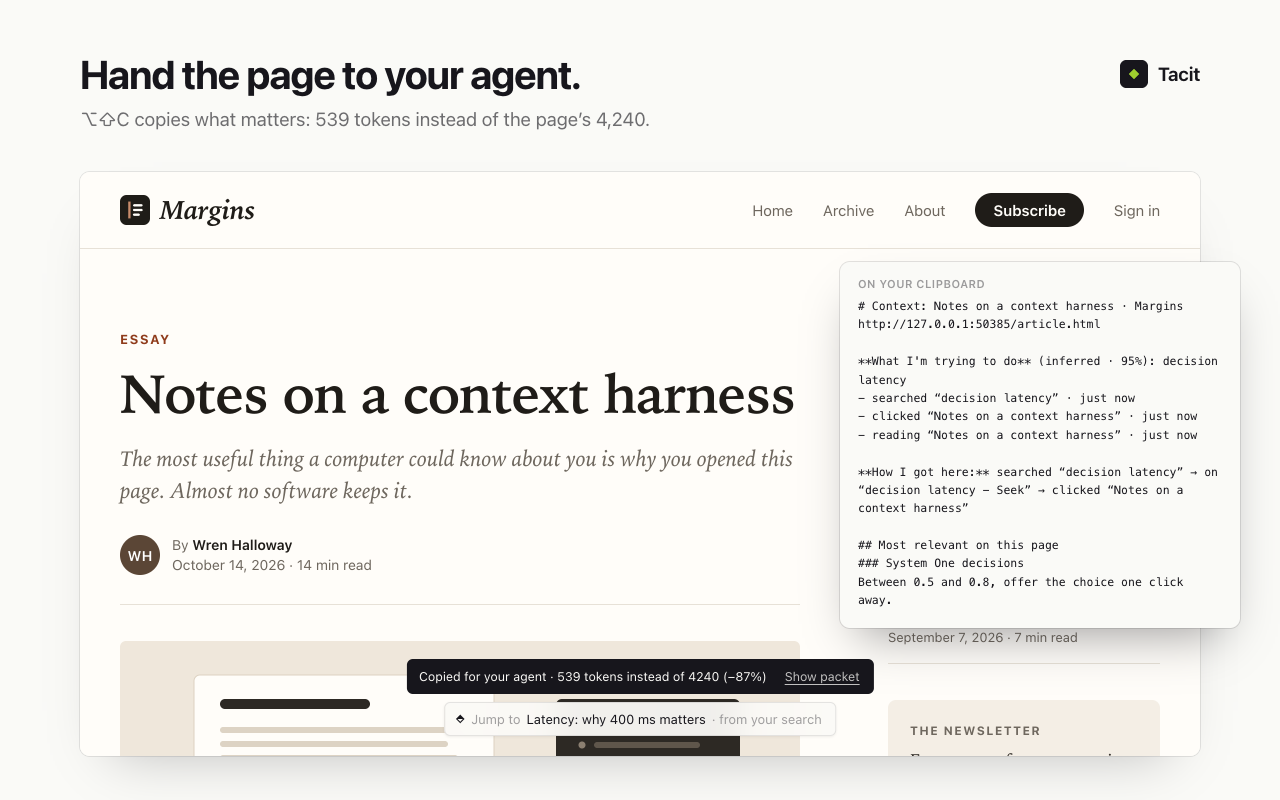
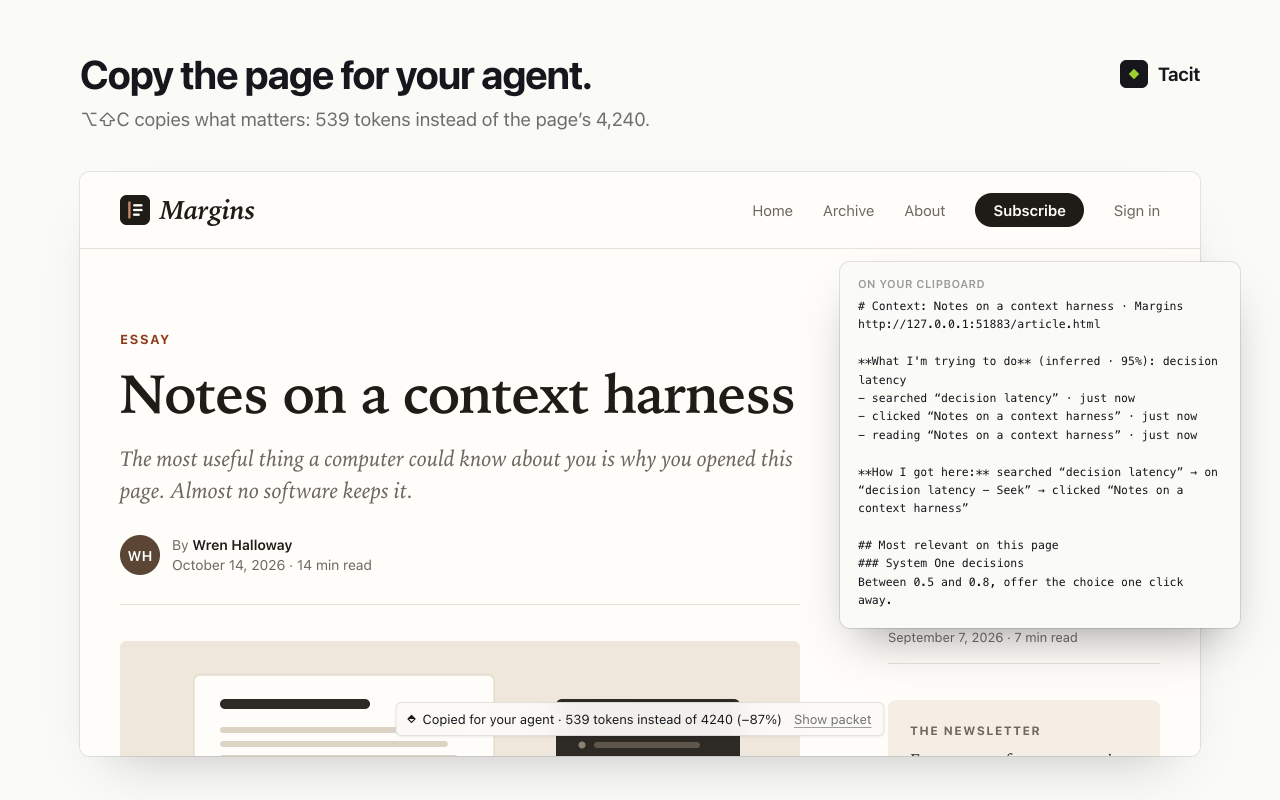
Release 0.2.0
What you read becomes context, X works for real, and Tacit learns from
what you undo; plus a guide and setup by pasting one line to an agent.

- Versions: extension, package and harness at 0.2.0; changelog dated.
- Store kit: permissions.md justifies only what the extension asks for
  now (no tabs; http and https hosts) and the new data it handles;
  listing.md is ready in both languages; images re-rendered.
- bun run record now makes the README GIF from the same take as the
  video; both re-rendered from this build.
- Only the popup and the dashboard carry the guide links (core/links).
- bun run setup checks Claude Code's user scope from outside any
  project, so an old local entry no longer passes for one.

Changed region(s): [[0.3125, 0.8125, 0.6875, 0.9375], [0.0625, 0.0625, 0.4688, 0.125]]

diff --git a/scripts/store.ts b/scripts/store.ts
@@ -9,7 +9,7 @@ import { chromium, type Browser, type Page } from 'playwright';
 import { HARNESS_ORIGIN, HARNESS_PORT, type CurrentContextResponse } from '../core';
 import { startHarness } from '../daemon/server';
 import { startDemo } from '../demo/serve';
-import { capsuleText, launch, LOCAL_ONLY, openSlip, ROOT } from './browser';
+import { capsuleText, launch, LOCAL_ONLY, openSlip, ROOT, searchThenOpen as openFrom } from './browser';
 
 const OUT = join(ROOT, 'docs/store');
 /** The browser window inside each screenshot. Pages are captured at 2x. */
@@ -88,7 +88,7 @@ async function render(browser: Browser, html: string, file: string, size: { widt
   console.log(`docs/store/${file}`);
 }
 
-/** Reads the capsule's state attributes, e.g. whether the slip is open or a toast is up. */
+/** Reads the capsule's state attributes, e.g. whether the slip is open or the line is confirming something. */
 function capsuleHas(page: Page, attr: string): Promise<boolean> {
   return page.evaluate((a) => !!document.querySelector('tacit-capsule')?.shadowRoot?.querySelector(`.tc[${a}]`), attr);
 }
@@ -108,10 +108,7 @@ async function currentUrl(): Promise<string> {
 }
 
 async function searchThenOpen(page: Page, query: string, target: string): Promise<void> {
-  await page.goto(`${site}/search.html?q=${encodeURIComponent(query).replace(/%20/g, '+')}`);
-  await capsuleText(page);
-  await page.locator(`a[href*="${target}"]:not([href*="#"])`).first().click();
-  await page.waitForURL(new RegExp(target.replace('.', '\\.')));
+  await openFrom(page, site, query, target);
   await capsuleText(page);
 }
 
@@ -133,14 +130,14 @@ try {
   await page.waitForTimeout(400);
   await page.keyboard.press('Alt+Shift+KeyC');
   await page.waitForTimeout(700);
-  if ((await capsuleHas(page, 'data-open')) || !(await capsuleHas(page, 'data-toast'))) throw new Error('handoff: expected the toast, not the slip');
+  if ((await capsuleHas(page, 'data-open')) || !(await capsuleHas(page, 'data-note'))) throw new Error('handoff: expected the line to confirm, not the slip');
   const packet = await page.evaluate(() => navigator.clipboard.readText());
   const [, tokens, full] = packet.match(/~(\d+) tokens instead of ~(\d+)/) ?? [];
   if (!tokens || !full) throw new Error('handoff: no token counts in the packet');
   const lines = packet.split('\n').slice(0, 13);
   shots.push({
     file: 'screenshot-2-handoff.png',
-    title: 'Hand the page to your agent.',
+    title: 'Copy the page for your agent.',
     note: `⌥⇧C copies what matters: ${Number(tokens).toLocaleString('en-US')} tokens instead of the page’s ${Number(full).toLocaleString('en-US')}.`,
     capture: await page.screenshot(),
     inset: `<div class="inset packet"><div class="head">On your clipboard</div>${lines.map((l) => `<div>${esc(l) || ' '}</div>`).join('')}</div>`,

diff --git a/scripts/record.ts b/scripts/record.ts
@@ -1,4 +1,4 @@
-// Records the demo flow as a video for sharing: docs/tacit-demo.mp4.
+// Records the demo flow for sharing: docs/tacit-demo.mp4, and the README's docs/assets/demo.gif from the same take.
 
 import { mkdtempSync, readdirSync, rmSync } from 'node:fs';
 import { tmpdir } from 'node:os';
@@ -59,7 +59,7 @@ try {
   await capsuleText(page);
   await caption(page, 'Tacit already knows why you are here, and says so', 3000);
   await page.locator('tacit-capsule .line').hover();
-  await caption(page, 'Intent, evidence, confidence. Nothing typed.', 3000);
+  await caption(page, 'Your intent, where it came from, the next steps. Nothing typed.', 3000);
   await page.mouse.move(60, 60);
   await page.waitForTimeout(400);
 
@@ -71,10 +71,10 @@ try {
   await page.waitForTimeout(2600);
   await page.keyboard.press('Alt+Shift+KeyF');
 
-  await caption(page, '⌥⇧C  hand the page to your agent', 600);
+  await caption(page, '⌥⇧C  copy the page for your agent', 600);
   await page.keyboard.press('Alt+Shift+KeyC');
   await page.waitForTimeout(1800);
-  await page.locator('tacit-capsule [data-act="toast"]').dispatchEvent('click');
+  await page.locator('tacit-capsule [data-act="note"]').dispatchEvent('click');
   await caption(page, 'A few hundred tokens instead of the whole page', 3200);
   await page.mouse.move(60, 60);
 
@@ -116,3 +116,9 @@ const out = join(ROOT, 'docs/tacit-demo.mp4');
 await Bun.$`ffmpeg -y -loglevel error -i ${join(videoDir, webm)} -c:v libx264 -pix_fmt yuv420p -crf 20 -movflags +faststart ${out}`;
 rmSync(videoDir, { recursive: true, force: true });
 console.log(`video: ${out}`);
+
+// The README's GIF, from the same take: 960 wide, 10 fps, one palette for the whole clip.
+const gif = join(ROOT, 'docs/assets/demo.gif');
+const palette = 'fps=10,scale=960:-1:flags=lanczos,split[a][b];[a]palettegen=stats_mode=diff[p];[b][p]paletteuse=dither=bayer:bayer_scale=5:diff_mode=rectangle';
+await Bun.$`ffmpeg -y -loglevel error -i ${out} -vf ${palette} ${gif}`;
+console.log(`gif: ${gif}`);

diff --git a/scripts/setup.ts b/scripts/setup.ts
@@ -4,7 +4,7 @@
 // Usage: bun run setup [--yes] [--dry-run]
 
 import { existsSync, mkdirSync, readFileSync, writeFileSync } from 'node:fs';
-import { homedir } from 'node:os';
+import { homedir, tmpdir } from 'node:os';
 import { dirname, join } from 'node:path';
 import { HARNESS_ORIGIN, type StatsResponse } from '../core';
 import { MCP_PATH, claudeAddArgs, connectInfo } from '../daemon/connect';
@@ -56,8 +56,9 @@ else left.push(`The running harness keeps its ledger in ${ledger}, not ${home}. 
 // 3. Agents. Claude Code is connected here; any other client gets its config printed.
 const claude = Bun.which('claude');
 if (claude) {
-  // `claude mcp get` exit codes are not documented, so an entry counts only if it points at this checkout.
-  const got = Bun.spawnSync([claude, 'mcp', 'get', 'tacit'], { stdout: 'pipe', stderr: 'pipe' });
+  // `claude mcp get` exit codes are not documented, so an entry counts only if it points at this checkout. Asked from
+  // outside any project, only user scope answers: an old local entry in this folder must not pass for one.
+  const got = Bun.spawnSync([claude, 'mcp', 'get', 'tacit'], { cwd: tmpdir(), stdout: 'pipe', stderr: 'pipe' });
   const elsewhere = got.exitCode === 0 && !got.stdout.toString().includes(MCP_PATH);
   if (got.exitCode === 0 && !elsewhere) done.push('Claude Code already has Tacit');
   else if (agree(elsewhere ? 'Claude Code has a Tacit entry that points elsewhere. Point it at this folder?' : 'Add Tacit to Claude Code, for every project?')) {

diff --git a/core/protocol.ts b/core/protocol.ts
@@ -8,12 +8,7 @@ import type { Intent, PageKind, PageModel, Read, Visit } from './types';
 
 export const HARNESS_PORT = 7766;
 export const HARNESS_ORIGIN = `http://127.0.0.1:${HARNESS_PORT}`;
-export const HARNESS_VERSION = '0.1.1';
-/** The guide, in each language the interface speaks. */
-export const GUIDE_URL = {
-  en: 'https://github.com/wujiajunhahah/tacit/blob/main/GUIDE.md',
-  'zh-CN': 'https://github.com/wujiajunhahah/tacit/blob/main/GUIDE.zh-CN.md',
-} as const;
+export const HARNESS_VERSION = '0.2.0';
 
 /**
  * - page: a visit started, or the page model changed (SPA navigation, feed grew).

diff --git a/extension/src/popup.ts b/extension/src/popup.ts
@@ -1,4 +1,5 @@
-import { GUIDE_URL, HARNESS_ORIGIN, clampPointerDwell } from '../../core';
+import { HARNESS_ORIGIN, clampPointerDwell } from '../../core';
+import { GUIDE_URL } from '../../core/links';
 import { detectLocale, getLocale, setLocale, t, type Key, type LocalePref } from './i18n';
 import { send, type StatusReply } from './messages';
 import { patternMatches, saveSettings, type Settings } from './settings';

diff --git a/daemon/ui/app.ts b/daemon/ui/app.ts
@@ -1,6 +1,7 @@
 // The dashboard: a hash router over seven views, bundled into GET / by ui/index.ts.
 
-import { GUIDE_URL, type HealthResponse } from '../../core';
+import type { HealthResponse } from '../../core';
+import { GUIDE_URL } from '../../core/links';
 import { get } from './api';
 import { attrs, el } from './dom';
 import { getLocale, initLocale, setLocale, t, tn, type Key } from './i18n';

diff --git a/core/links.ts b/core/links.ts
@@ -1,0 +1,7 @@
+// Links out of Tacit. Not re-exported from core/index, so only the bundles that show them carry them.
+
+/** The guide, in each language the interface speaks. */
+export const GUIDE_URL = {
+  en: 'https://github.com/wujiajunhahah/tacit/blob/main/GUIDE.md',
+  'zh-CN': 'https://github.com/wujiajunhahah/tacit/blob/main/GUIDE.zh-CN.md',
+} as const;

diff --git a/docs/store/permissions.md b/docs/store/permissions.md
@@ -1,24 +1,16 @@
 # Privacy practices: permissions and data use
 
-Answers for the **Privacy practices** tab of the developer dashboard. Each block in "Permission justifications" goes into the field of the same name. Everything here was checked against the code at v0.1.1; file references are given so a reviewer, or you after a change, can check again.
+Answers for the **Privacy practices** tab of the developer dashboard. Each block in "Permission justifications" goes into the field of the same name. Everything here was checked against the code at v0.2.0; file references are given so a reviewer, or you after a change, can check again.
 
 ## Permission justifications
 
 ### storage
 
 ```text
-Saves Tacit's settings (paused, sites paused, sites never to read) and the recent trail it reasons over, so both survive the service worker restarting. chrome.storage.local holds the last 300 page visits (address, title, times, scroll depth, how the page was reached, and the text selected or copied and the links clicked there) and the last 200 actions Tacit took. chrome.storage.session holds per-tab navigation state, which Chrome clears when the browser closes. This data stays in the browser; the only place it is sent is the harness the user runs on their own computer at 127.0.0.1.
+Saves Tacit's settings (paused, sites paused, sites and paths never to read, reading with the pointer and its threshold, language) and the recent trail it reasons over, so both survive the service worker restarting. chrome.storage.local holds the last 300 page visits (address, title, times, scroll depth, how the page was reached, the text selected or copied, the links and posts clicked, and the passages read closely there) and the last 200 actions Tacit took. chrome.storage.session holds per-tab navigation state, which Chrome clears when the browser closes. This data stays in the browser; the only place it is sent is the harness the user runs on their own computer at 127.0.0.1.
 ```
 
 Code: `extension/src/settings.ts`, `save()` and `load()` in `extension/src/background.ts`.
-
-### tabs
-
-```text
-The popup reads the active tab's address to show which site the user is on and to pause Tacit on that site only. The service worker uses tab events to work out how a page was reached and when the user stopped reading it: which tab opened a new tab, and when a tab closed. It messages a tab when a single-page app changes its address, so the content script reads the new page, and the popup opens the local ledger (http://127.0.0.1:7766) in a new tab.
-```
-
-Code: `activeDomain()` in `extension/src/popup.ts`; `chrome.tabs.onCreated`, `onRemoved` and `sendMessage` in `extension/src/background.ts`.
 
 ### webNavigation
 
@@ -31,22 +23,22 @@ Code: the three `chrome.webNavigation` listeners and `computeArrival()` in `exte
 ### clipboardWrite
 
 ```text
-Tacit writes to the clipboard only when the user asks. Alt+Shift+C (or "Hand to agent") copies a Markdown context packet of the current page, to paste into an AI agent; a copy suggestion copies a command from a code block on the page. The permission keeps this working where the asynchronous Clipboard API is unavailable (plain-http pages) or blocked by the site, through the document.execCommand('copy') fallback. Tacit never reads the clipboard.
+Tacit writes to the clipboard only when the user asks. Alt+Shift+C (or "Copy for agent") copies a Markdown context packet of the current page, to paste into an AI agent; a copy suggestion copies a command from a code block on the page. The permission keeps this working where the asynchronous Clipboard API is unavailable (plain-http pages) or blocked by the site, through the document.execCommand('copy') fallback. Tacit never reads the clipboard.
 ```
 
 Code: `extension/src/clipboard.ts`, `handoff()` and `copyAction()` in `extension/src/content.ts`.
 
-### Host permission (`<all_urls>`)
+### Host permissions (`http://*/*`, `https://*/*`)
 
 ```text
-Tacit's single purpose is to make the page the user is reading available as context, on whatever site they read it, so its content script runs on all http and https pages to read the page's text and links and how the user reached and used the page. Sites on the never-read list (by default Gmail, Google Account pages, PayPal, 1Password, Bitwarden and LastPass) and paused sites are skipped: the content script does not read them. The service worker also needs to reach http://127.0.0.1:7766, the harness the user runs on their own computer, which is the only address Tacit sends data to.
+Tacit's single purpose is to make the page the user is reading available as context, on whatever site they read it, so its content script runs on all http and https pages to read the page's text and links and how the user reached and used the page. Sites and paths on the never-read list (by default Gmail, Google Account pages, PayPal, 1Password, Bitwarden, LastPass, and X messages and chats) and paused sites are skipped: the content script does not read them. The same access lets the popup show which site the active tab is on, so it can be paused there, without the tabs permission. The service worker also needs to reach http://127.0.0.1:7766, the harness the user runs on their own computer, which is the only address Tacit sends data to.
 ```
 
-Code: `content_scripts` in `extension/manifest.json` (http and https only), `DEFAULT_SETTINGS` and `isActiveOn()` in `extension/src/settings.ts`, `HARNESS_ORIGIN` in `core/protocol.ts`.
+Code: `host_permissions` and `content_scripts` in `extension/manifest.json` (http and https only), `DEFAULT_SETTINGS` and `isActiveAt()` in `extension/src/settings.ts`, `activeTab()` in `extension/src/popup.ts`, `HARNESS_ORIGIN` in `core/protocol.ts`. There is no `tabs` permission: tab events, messaging a tab and opening a tab do not need it.
 
 ## Remote code
 
-Choose **"No, I am not using remote code."** All JavaScript is bundled into `extension/dist/` at build time. The extension makes requests to `http://127.0.0.1:7766` only (`/v1/health`, `/v1/ingest`, `/v1/decide`), all JSON, and never loads or evaluates code from there or anywhere else. The built files contain no `eval`, no `new Function` and no other URL.
+Choose **"No, I am not using remote code."** All JavaScript is bundled into `extension/dist/` at build time. The extension makes requests to `http://127.0.0.1:7766` only (`/v1/health`, `/v1/ingest`, `/v1/decide`, `/v1/forgotten`, and `/v1/connect` from the popup), all JSON, and never loads or evaluates code from there or anywhere else. The built files contain no `eval` and no `new Function`. The only other URLs in them are two links in the popup to the guide on GitHub, which open as an ordinary tab when the user clicks one.
 
 ## Data usage
 
@@ -55,7 +47,7 @@ Tick these three, and leave the others unticked:
 | Category | Tick | What Tacit handles |
 |---|---|---|
 | Web history | Yes | Address, title and times of each page visited; the page it came from and the search that led to it. |
-| User activity | Yes | Clicks on links and buttons (label and address), scroll depth, time the page is visible and focused, text selected or copied. |
+| User activity | Yes | Clicks on links, buttons and posts (label and address), scroll depth, time the page is visible and focused, text selected or copied, and which passages stay in the middle of the screen, or under the resting pointer when the user turns that on, and for how long. No pointer positions are kept. |
 | Website content | Yes | Page text (headings, paragraphs, lists, code, quotes, captions), links (text, address, surrounding sentence), meta description; on X timelines, post text and author names. |
 | Personally identifiable information | No | Not collected as such. Anything a page happens to show is covered by Website content, and PRIVACY.md says so. |
 | Health information | No | Same as above. |
@@ -72,12 +64,12 @@ Privacy policy URL: `https://github.com/wujiajunhahah/tacit/blob/main/PRIVACY.md
 
 | What | Where | Kept |
 |---|---|---|
-| Settings | `chrome.storage.local` | Until changed or uninstalled |
-| Trail: the last 300 visits, each with up to 20 selections and 20 copies (2,000 characters each) and the last 30 clicks | `chrome.storage.local` | Oldest dropped past 300; deleted on uninstall |
+| Settings, and the time of the last deletion in the harness it applied | `chrome.storage.local` | Until changed or uninstalled |
+| Trail: the last 300 visits, each with up to 20 selections and 20 copies (2,000 characters each), the last 30 clicks and up to 30 passages read closely (300 characters each) | `chrome.storage.local` | Oldest dropped past 300; forgotten when deleted in the dashboard; deleted on uninstall |
 | Action ledger: the last 200 actions (jump, copy, open, focus, fold, handoff, picked intent) | `chrome.storage.local` | Oldest dropped past 200; deleted on uninstall |
 | Per-tab state: the current visit, the last navigation (address, transition type), the address requested before a redirect, the last link clicked, the opener tab | `chrome.storage.session` | Until the browser closes |
 | Page models of the last 30 pages; up to 500 events waiting for the harness | Service worker memory | Until the service worker stops |
-| Pages (up to 400 text blocks of 4,000 characters, up to 300 links and buttons), visits, actions | The harness, over plain HTTP on the loopback interface, into `~/.tacit/tacit.db` (0600 file in a 0700 folder) | Newest 5,000 visits and their pages; actions until the folder is deleted |
+| Pages (up to 400 text blocks of 4,000 characters, up to 300 links and buttons), visits, actions | The harness, over plain HTTP on the loopback interface, into `~/.tacit/tacit.db` (0600 file in a 0700 folder) | Newest 5,000 visits and their pages; actions until deleted from the dashboard or the folder is deleted. A deleted page is remembered by a SHA-256 hash of its address (the last 1,000), never the address |
 | The context packet, or a command from a code block | The clipboard | Only when the user presses Alt+Shift+C or runs a copy suggestion |
 | Decision requests (below) | TypeSafe's API over HTTPS, sent by the harness | Only when the harness has a TypeSafe key |
 
@@ -97,7 +89,7 @@ The content script asks once per page view and again when the intent or the page
 |---|---|---|
 | `model` | `TYPESAFE_MODEL`, else `jev-latest` | |
 | `state.user_intent` | The inferred or stated intent: a recent search, a passage the user selected or copied, something they said, or a page title | 80 characters |
-| `state.evidence` | Up to three lines like `searched “jev latency” · 3 min ago`, `selected “…” · just now`, `read “page title” · 5 min ago`, from the last 30 visits within the last 90 minutes (any tab, any site Tacit was allowed to read) | 3 lines, 60 characters quoted per line |
+| `state.evidence` | Up to three lines like `searched “jev latency” · 3 min ago`, `selected “…” · just now`, `read closely “…” · just now`, `read “page title” · 5 min ago`, from the last 30 visits within the last 90 minutes (any tab, any site Tacit was allowed to read) | 3 lines, 60 characters quoted per line |
 | `state.page` | The current page's `title`, full `url` (including query string and fragment) and `kind` (article, feed, repo, search, unknown) | |
 | `questions.next` (pages other than X timelines) | A choice among up to 12 candidate next steps plus "none". Each option is `"<n>. <label>"` with the text around it as its description. Candidates are jumps to the best sections (heading, passage snippet), copies of code blocks (first line, code snippet) and the page's links and buttons (their text, the sentence around them). Link addresses are not sent. | 12 options; label 80, description 160 characters |
 | `questions.post_0` … `post_39` (X timelines) | One yes/no question per post: "Is this post about what the user is trying to do right now?", with the post text and author name, in page order | 40 posts; text 500, author 80 characters |

diff --git a/CHANGELOG.md b/CHANGELOG.md
@@ -1,8 +1,8 @@
 # Changelog
 
-## 0.2.0 · Unreleased
+## 0.2.0 · 2026-10-21
 
-What you read becomes context, X works for real, and Tacit learns from what you undo.
+What you read becomes context, X works for real, and Tacit learns from what you undo. And a guide, plus setup by pasting one line to your agent.
 
 - **Reading attention.** A passage that holds the middle of the screen for 4 s of reading becomes context: it weighs the words you are after and leads the packet under "Passages I read closely". Turn on "Read with the pointer" in the popup and the passage your pointer rests on counts too, after a threshold you set (0.6–4 s). Skimming, idle time and hidden tabs never count.
 - **X, for real.** Timelines that recycle posts keep every post you scroll past. Re-rendered posts get their folds back before they paint, and new posts are folded before they reach the screen. Opening a post is a new visit that remembers which post you came from. Conversations are never folded, and X messages and chats are never read.
@@ -18,6 +18,7 @@ What you read becomes context, X works for real, and Tacit learns from what you 
 - **Who decides.** DESIGN.md maps every decision in the loop to one owner (code, pre-written, a small typed model, or your own agent) with its time budget and its fallback.
 - **[DESIGN.md](DESIGN.md):** the north star (less input), the principles, the loop, every signal and its weight, and when Tacit borrows from other tools.
 - **Fewer permissions.** No `tabs` permission, and host access narrowed from `<all_urls>` to `http` and `https`.
+- **The store kit, for 0.2.0.** `docs/store` justifies only the permissions the extension now asks for, describes the new data (passages read closely, X messages left out, deletion), and has a 简体中文 listing ready, since the package ships `_locales/zh_CN`. Images, the demo video and the README GIF re-rendered from the new build; `bun run record` now makes the GIF too.
 - **Jumps land like anchor links:** the target near the top, the answer below it in the reading band, instead of centered under the previous section.
 - **Fixes.** Clicking a fold no longer counts as interest in the posts it hides. Unfolding opens the whole run, even where the page recycled part of it. The popup hides the site switch on browser pages. The Learned view no longer says Tacit acts on its own: it offers, one key away. Reading a passage weighs its words but no longer renames your goal after a sentence you copied from it. A 40% undo rate moves the bar one step, not two (float rounding). The setup command adds Tacit to Claude Code for every project (`--scope user`), not only the tacit folder.
 - **Tests.** 140 unit tests. The extension's end-to-end run grows to 41 checks (reading, pointer reading, Chinese, every dashboard view, a deletion reaching the extension), and `bun run e2e:web` checks the page runtime against an X-style virtual timeline (20 checks). Browser tests ignore any system proxy, so they run where one is set.

diff --git a/docs/store/README.md b/docs/store/README.md
@@ -25,17 +25,15 @@ bun run build && cd extension && zip -r ../tacit-extension-v0.2.0.zip manifest.j
 
 1. Commit and push, so `https://github.com/wujiajunhahah/tacit/blob/main/PRIVACY.md` resolves.
 2. Register at the [developer dashboard](https://chrome.google.com/webstore/devconsole) and pay the one-time $5 fee. Finish whatever the Account tab asks for.
-3. **New item**, then upload `tacit-extension-v0.1.1.zip` (the same file is attached to the [v0.1.1 release](https://github.com/wujiajunhahah/tacit/releases/tag/v0.1.1)).
-4. **Store listing:** paste from `listing.md`, upload the images in the order it gives.
+3. **New item**, then upload `tacit-extension-v0.2.0.zip` (the same file is attached to the [v0.2.0 release](https://github.com/wujiajunhahah/tacit/releases/tag/v0.2.0)).
+4. **Store listing:** paste from `listing.md`, upload the images in the order it gives. Add the 简体中文 listing too: the package ships `_locales/zh_CN`.
 5. **Privacy practices:** paste from `permissions.md`, tick the three data types and the three certifications, add the privacy policy URL.
 6. **Distribution:** public, all regions, unless you want an unlisted beta first.
 7. **Submit for review.** Access to all sites usually means an in-depth review, so expect days rather than hours.
 8. Once it is live: put the store link in the README quick start, and tick "Chrome Web Store release" in Status.
 
-## Worth deciding before you submit
+## Done in 0.2.0
 
-- **Drop `tabs`.** With `<all_urls>` granted, the popup and the service worker still read tab addresses without it (checked in Chromium). It only matters when someone withholds site access, and there Tacit cannot read the page anyway. One less permission for the reviewer to question.
-- **Narrow `<all_urls>`** to `http://*/*` and `https://*/*`. The content script only runs on those, and the harness at `http://127.0.0.1:7766` is covered; `<all_urls>` also grants `file://` pages, which Tacit never uses. Checked in Chromium together with dropping `tabs`: the line still mounts, tab addresses are readable, and visits reach the harness.
-- **The 简体中文 listing** needs `_locales/zh_CN` (and `default_locale`) in the package; the dashboard only offers languages the package ships.
-
-If you drop a permission, delete its block in `permissions.md`.
+- **No `tabs` permission.** The popup reads the active tab's address through host access; tab events, messaging a tab and opening one need no permission. Checked in Chromium.
+- **Host access narrowed** from `<all_urls>` to `http://*/*` and `https://*/*`: Tacit never reads `file://` pages, and the harness at `http://127.0.0.1:7766` is covered.
+- **A 简体中文 listing is possible:** the package ships `_locales/en` and `_locales/zh_CN`.

diff --git a/docs/screenshots/agent-view.md b/docs/screenshots/agent-view.md
@@ -5,7 +5,7 @@ Captured by `bun run e2e` after the demo flows.
 ## tacit_current_context
 
 # Context: tacit-labs/reflex: Calibrated reflexes for interfaces · Codeyard
-http://127.0.0.1:60286/repo.html
+http://127.0.0.1:52089/repo.html
 
 **What I'm trying to do** (inferred · 90%): install reflex
 - searched “install reflex” · just now
@@ -71,13 +71,13 @@ Other readings:
 3 pages the user read match “decision latency”, best first:
 
 1. tacit-labs/reflex: Calibrated reflexes for interfaces · Codeyard (127.0.0.1 · last seen just now)
-   http://127.0.0.1:60286/repo.html
+   http://127.0.0.1:52089/repo.html
    import { choose } from '@tacit-labs/reflex'; const result = choose({ state: 'Searched "decision latency", opened an essay', options: [ { id: 'latency', label: 'Latency: why 400 ms matters' }, { id:…
 
 2. Notes on a context harness · Margins (127.0.0.1 · last seen just now)
-   http://127.0.0.1:60286/article.html
+   http://127.0.0.1:52089/article.html
    09:14:02 search "decision latency" seek 09:14:09 follow "Latency: why 400 ms matters" margins 09:14:41 select "below a certain delay a tool disappears" 09:15:30 dwell latency-why-400-ms-matters 48 s…
 
 3. Home / Murmur (127.0.0.1 · last seen just now)
-   http://127.0.0.1:60286/feed.html
+   http://127.0.0.1:52089/feed.html
    p95 decision latency dropped from 610 ms to 290 ms after we stopped re-tokenizing the whole page on every scroll event. Profile before you optimize, then profile again.
